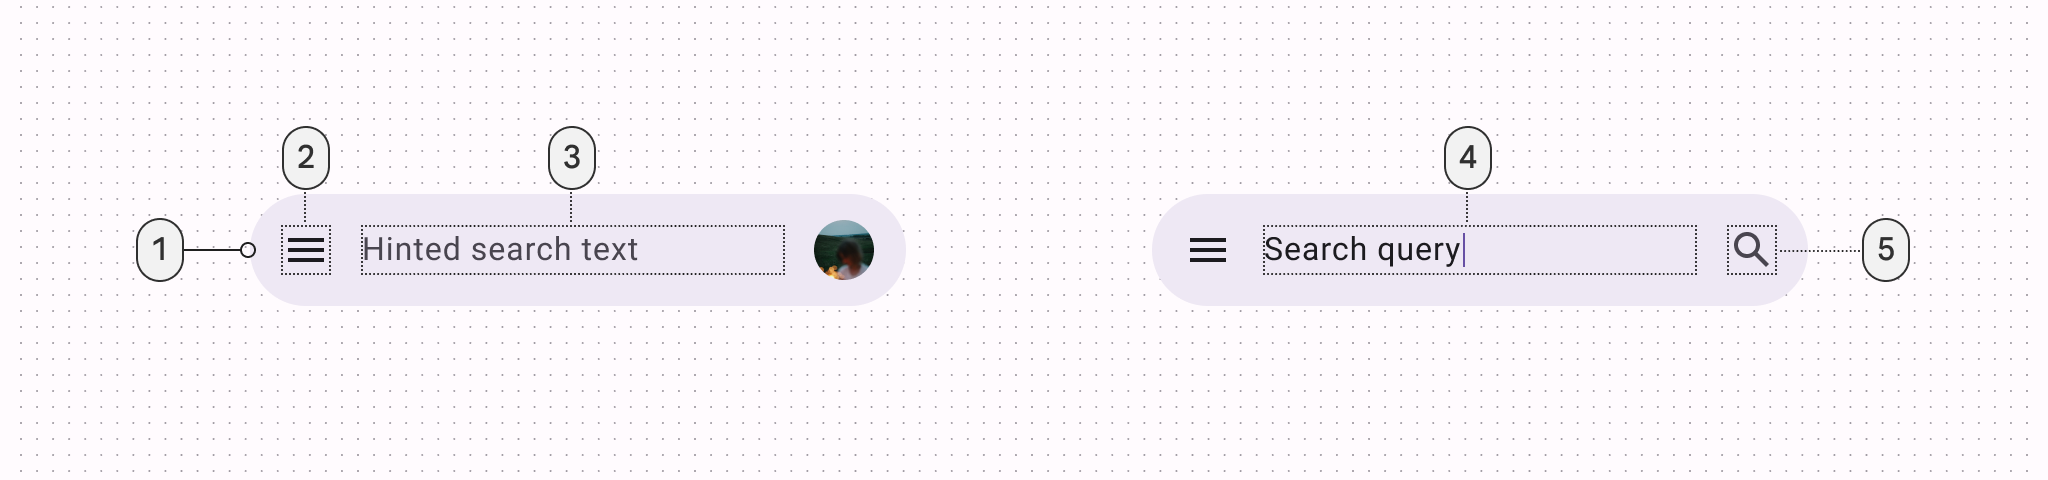
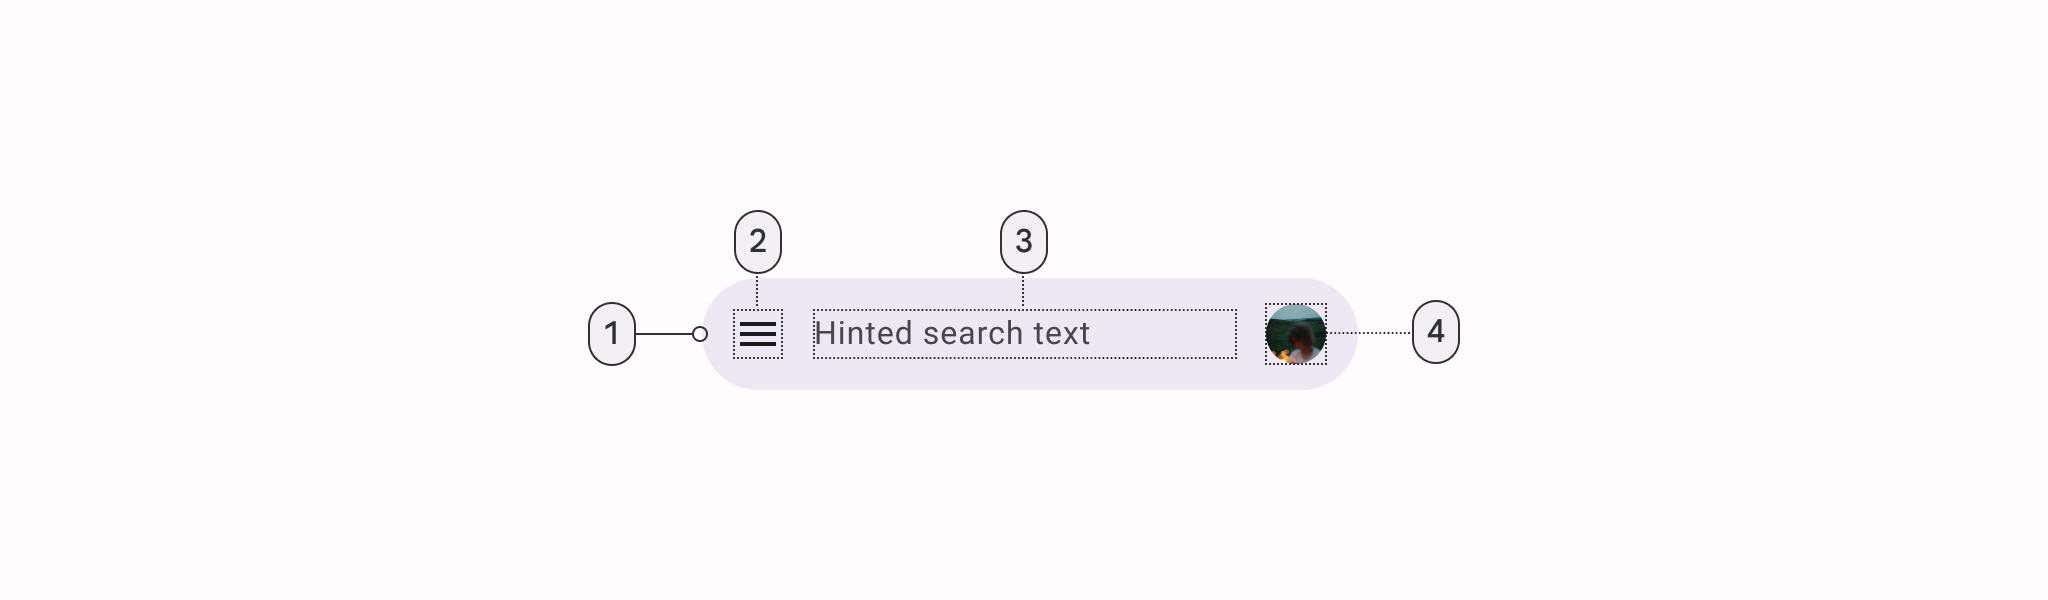
[SearchBar] FIX anatomy search bar documentation
Resolves https://github.com/material-components/material-components-android/pull/3156
Resolves https://github.com/material-components/material-components-android/pull/3161

GIT_ORIGIN_REV_ID=d3fe2668cdef3b75de2c576e7f6517e41d55ccb8
PiperOrigin-RevId: 508143526

diff --git a/docs/components/Search.md b/docs/components/Search.md
@@ -79,10 +79,8 @@ The following is an anatomy diagram for the search bar:
 
 1.  Container
 2.  Leading icon button
-3.  Input text Supporting text
-4.  Avatar (optional)
-5.  Supporting text
-6.  Trailing icon button (optional)
+3.  Supporting text
+4.  Avatar or trailing icon (optional)
 
 ### Attributes
 
